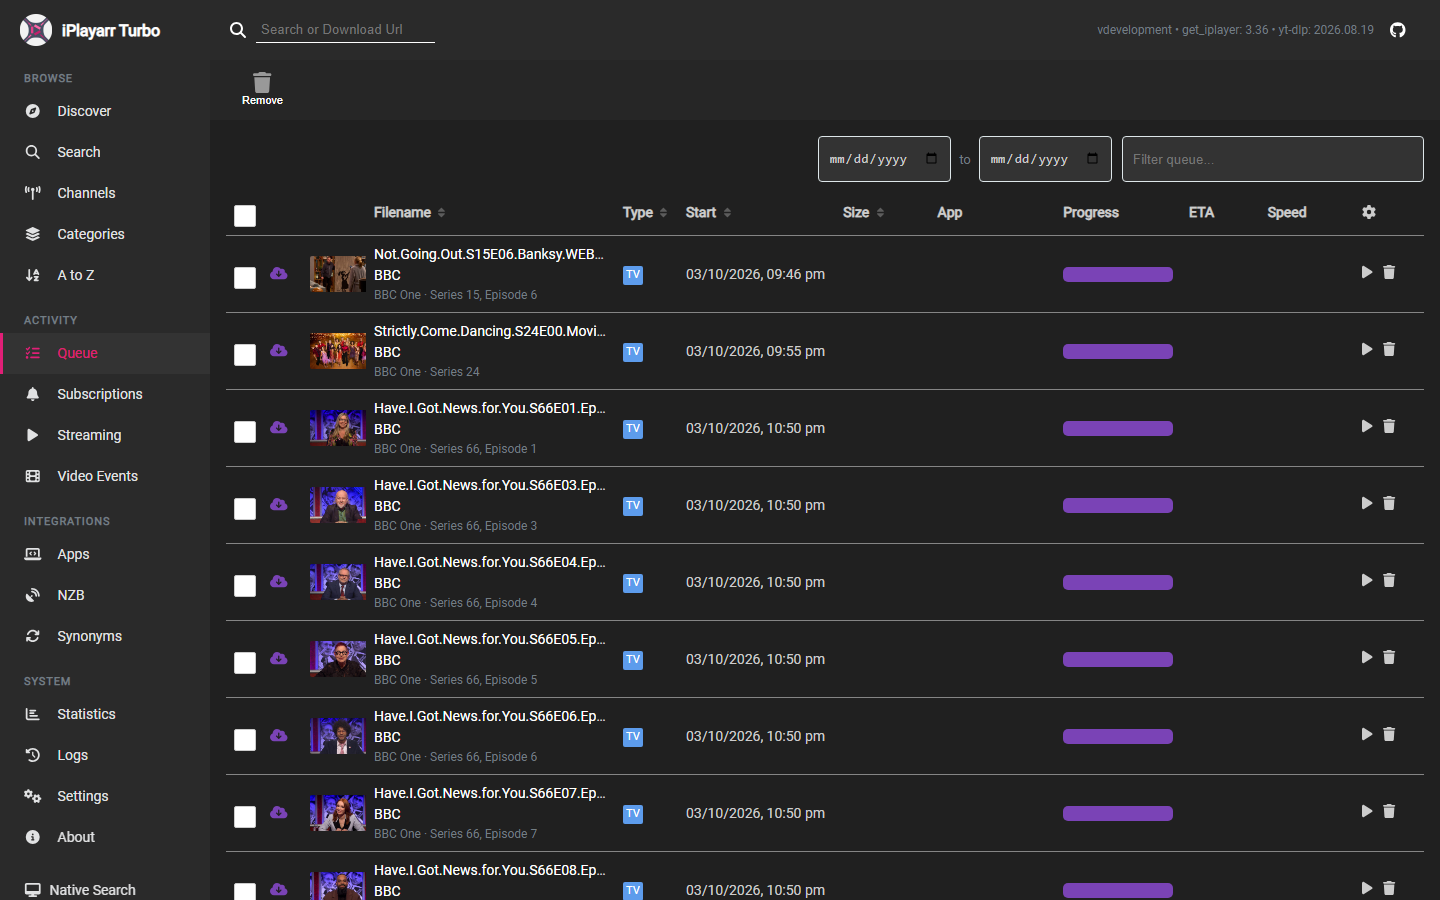
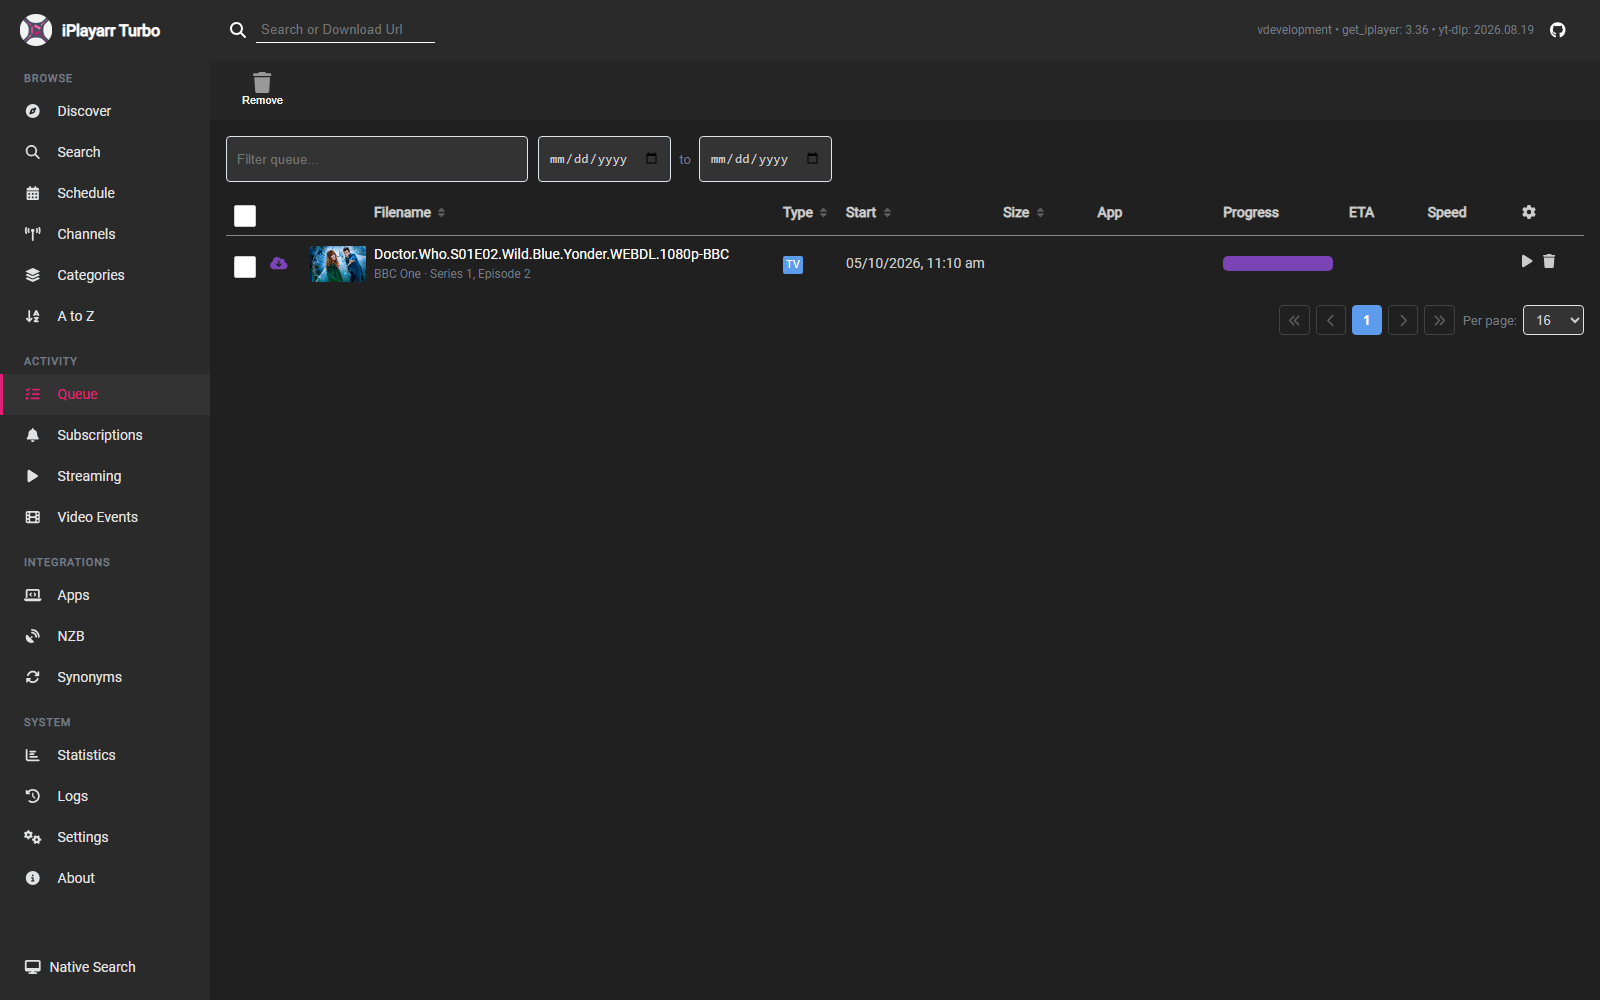
docs(readme): add fresh screenshots and document ARR_COMPLETE_DIR in examples
Smoke-tested the web UI (search/download, subscribe, mobile layout) and
swapped in current screenshots for the README gallery. Also added
ARR_COMPLETE_DIR to the docker run/Compose examples in README.md and
docs/INSTALLATION.md, which had the setting documented elsewhere but
missing from the copy-pasteable examples.

diff --git a/README.md b/README.md
@@ -5,6 +5,7 @@ iPlayarr is a companion tool for **Sonarr** and **Radarr**, making it easy to in
 ![Build Status](https://img.shields.io/github/actions/workflow/status/planet22/iplayarr-turbo/build.yml?logo=github)
 ![Test Status](https://img.shields.io/github/actions/workflow/status/planet22/iplayarr-turbo/test.yml?logo=github&label=tests)
 <!--- istanbul-badges-readme:start --->
+
 ![Statements](https://img.shields.io/badge/statements-70.39%25-red.svg?style=flat)
 ![Branches](https://img.shields.io/badge/branches-60.34%25-red.svg?style=flat)
 ![Functions](https://img.shields.io/badge/functions-69.67%25-red.svg?style=flat)
@@ -36,15 +37,22 @@ This README covers the basics. For more detail, see `docs/`:
 
 <p align="center">
   <img src="https://raw.githubusercontent.com/planet22/iplayarr-turbo/refs/heads/main/readme-media/login.png" alt="Login View" width="49%">
+  <img src="https://raw.githubusercontent.com/planet22/iplayarr-turbo/refs/heads/main/readme-media/search.png" alt="Search View" width="49%">
+</p>
+<p align="center">
+  <img src="https://raw.githubusercontent.com/planet22/iplayarr-turbo/refs/heads/main/readme-media/download.png" alt="Download Confirmation" width="49%">
   <img src="https://raw.githubusercontent.com/planet22/iplayarr-turbo/refs/heads/main/readme-media/queue.png" alt="Queue View" width="49%">
 </p>
 <p align="center">
-  <img src="https://raw.githubusercontent.com/planet22/iplayarr-turbo/refs/heads/main/readme-media/search.png" alt="Search View" width="49%">
+  <img src="https://raw.githubusercontent.com/planet22/iplayarr-turbo/refs/heads/main/readme-media/subscribe.png" alt="Subscribe to a Show" width="49%">
   <img src="https://raw.githubusercontent.com/planet22/iplayarr-turbo/refs/heads/main/readme-media/details.png" alt="Details View" width="49%">
 </p>
 <p align="center">
   <img src="https://raw.githubusercontent.com/planet22/iplayarr-turbo/refs/heads/main/readme-media/channels.png" alt="Channels View" width="49%">
   <img src="https://raw.githubusercontent.com/planet22/iplayarr-turbo/refs/heads/main/readme-media/schedule.png" alt="Schedule View" width="49%">
+</p>
+<p align="center">
+  <img src="https://raw.githubusercontent.com/planet22/iplayarr-turbo/refs/heads/main/readme-media/mobile.png" alt="Mobile View" width="30%">
 </p>
 
 ## Why iPlayarr?
@@ -76,6 +84,7 @@ docker run -d --name iplayarr \
   -v ./logs:/logs \
   -v /path/to/incomplete:/incomplete \
   -v /path/to/complete:/complete \
+  -v /path/to/arrcomplete:/arrcomplete \
   --env-file=env-file \
   -p 4404:4404 \
   ghcr.io/planet22/iplayarr-turbo:latest
@@ -91,10 +100,13 @@ docker run -d --name iplayarr \
   -v ./logs:/logs \
   -v /path/to/incomplete:/incomplete \
   -v /path/to/complete:/complete \
+  -v /path/to/arrcomplete:/arrcomplete \
   --env-file=env-file \
   -p 4404:4404 \
   iplayarr
 ```
+
+The `/path/to/arrcomplete` mount is only needed if you set `ARR_COMPLETE_DIR` (e.g. `ARR_COMPLETE_DIR=/arrcomplete` in `env-file`) to give TV downloads their own completed-files folder, separate from `COMPLETE_DIR` — see the optional settings table below. Leave it out if you don't use that setting.
 
 Or use Docker Compose:
 
@@ -107,6 +119,7 @@ services:
             - 'API_KEY=1234'
             - 'DOWNLOAD_DIR=/mnt/media/iplayarr/incomplete'
             - 'COMPLETE_DIR=/mnt/media/iplayarr/complete'
+            - 'ARR_COMPLETE_DIR=/mnt/media/iplayarr/arrcomplete'
             - 'PUID=1000'
             - 'PGID=1000'
         ports:
@@ -117,6 +130,8 @@ services:
             - './config:/config'
             - './logs:/logs'
 ```
+
+`ARR_COMPLETE_DIR` is optional — it's under `/mnt/media/iplayarr/arrcomplete`, so the existing `/mnt/media:/mnt/media` mount already covers it. Remove that environment line if you don't want TV downloads split into their own folder.
 
 See [docs/INSTALLATION.md](docs/INSTALLATION.md) for a deeper walkthrough of volume mounts, PUID/PGID, and updating the container, and [docs/platforms/synology.md](docs/platforms/synology.md)/[docs/platforms/unraid.md](docs/platforms/unraid.md) for NAS-specific notes.
 
@@ -130,32 +145,32 @@ You can pre-set the following environment variables, or you can set them in the 
 
 There's a few more optional settings too:
 
-| Property         | Description                                                                               |
-| ---------------- | ----------------------------------------------------------------------------------------- |
-| ACTIVE_LIMIT     | How many downloads are allowed simultaneously, defaults to 3                              |
-| REFRESH_SCHEDULE | Cron expression for when to proactively refresh schedule, defaults to hourly, on the hour |
-| SCHEDULE_FULL_REFRESH | Re-fetch every day in the schedule window on every refresh instead of reusing cached results for days that have already passed. Defaults to false |
-| HIDE_DONATE      | If you don't like the Kofi donate links you can hide them                                 |
-| PUID             | Host User ID for file permissions                                                         |
-| PGID             | Host Group ID for file permissions                                                        |
-| NATIVE_SEARCH    | Search BBC's own search API directly instead of shelling out to get_iplayer. Faster, and the default. Defaults to true |
-| ARCHIVE_ENABLED  | Keep a record of cancelled/removed downloads instead of discarding them outright. Defaults to false |
-| OUTPUT_FORMAT    | Output container format passed to get_iplayer (e.g. mp4). Defaults to mp4 |
-| LIBRARY_FOLDER_STRUCTURE | Organize completed downloads under COMPLETE_DIR into Jellyfin-style Show/Season folders (or a Movie folder), instead of one flat folder. Defaults to false. See [docs/LIBRARY_ORGANIZATION.md](docs/LIBRARY_ORGANIZATION.md) |
-| ARR_COMPLETE_DIR | Optional override of COMPLETE_DIR for TV downloads only (what the *arr imports). Leave unset to use COMPLETE_DIR for everything |
-| WRITE_NFO_STRM   | Write a Jellyfin-compatible .nfo metadata file alongside each completed item. A .strm file is only ever produced when MEDIA_MODE is `strm`; this just adds matching .nfo metadata for it. One of `none` (default), `all`, `nzb` (only downloads added by Sonarr/Radarr), or `manual` (only manually-triggered downloads). See [docs/LIBRARY_ORGANIZATION.md](docs/LIBRARY_ORGANIZATION.md) |
-| MEDIA_MODE       | `strm` (default) saves a small pointer file that streams on demand, saving disk space; `download` saves the full file instead. See [docs/STREAMING.md](docs/STREAMING.md) |
-| STREAM_CLIENT    | Which tool serves playback for `.strm` files: `NATIVE` (default, fastest to start, adaptive quality), `GET_IPLAYER`, or `YTDLP`. See [docs/STREAMING.md](docs/STREAMING.md) |
-| STREAM_MODE      | `direct` (default, supports seeking) or `progressive-mkv` (remuxes to MKV on the fly, needs ffmpeg, no seeking) |
-| STREAM_BASE_URL  | The address your media server (Jellyfin/Plex/Emby) uses to reach iPlayarr, for links written into `.strm` files |
-| STREAM_KEY       | Secures `.strm` playback links, separate from API_KEY so it can be regenerated on its own |
-| STREAM_CACHE_DIR | Where temporary files are stored while streaming. Defaults to a temp folder |
-| STREAM_NATIVE_ADAPTIVE | With STREAM_CLIENT=NATIVE, let the player adjust quality automatically instead of pinning VIDEO_QUALITY. Defaults to false |
-| STREAM_NATIVE_HQ_PROBE | With STREAM_CLIENT=NATIVE, verify real stream quality before playing (adds a short delay). Defaults to false |
-| STREAM_NATIVE_EXPERIMENTAL_FHD | With STREAM_CLIENT=NATIVE, try to unlock real 1080p above BBC's usual 720p cap on native streams. Defaults to true |
-| THUMBNAIL_CACHE_DIR | Where cached BBC episode thumbnails are stored |
-| THUMBNAIL_RETENTION_DAYS | How many days to keep unused cached thumbnails before nightly cleanup. Defaults to 30 |
-| STREAM_HISTORY_RETENTION_DAYS | How many days to keep native streaming session history before nightly cleanup. Defaults to 30 |
+| Property                       | Description                                                                                                                                                                                                                                                                                                                                                                                |
+| ------------------------------ | ------------------------------------------------------------------------------------------------------------------------------------------------------------------------------------------------------------------------------------------------------------------------------------------------------------------------------------------------------------------------------------------ |
+| ACTIVE_LIMIT                   | How many downloads are allowed simultaneously, defaults to 3                                                                                                                                                                                                                                                                                                                               |
+| REFRESH_SCHEDULE               | Cron expression for when to proactively refresh schedule, defaults to hourly, on the hour                                                                                                                                                                                                                                                                                                  |
+| SCHEDULE_FULL_REFRESH          | Re-fetch every day in the schedule window on every refresh instead of reusing cached results for days that have already passed. Defaults to false                                                                                                                                                                                                                                          |
+| HIDE_DONATE                    | If you don't like the Kofi donate links you can hide them                                                                                                                                                                                                                                                                                                                                  |
+| PUID                           | Host User ID for file permissions                                                                                                                                                                                                                                                                                                                                                          |
+| PGID                           | Host Group ID for file permissions                                                                                                                                                                                                                                                                                                                                                         |
+| NATIVE_SEARCH                  | Search BBC's own search API directly instead of shelling out to get_iplayer. Faster, and the default. Defaults to true                                                                                                                                                                                                                                                                     |
+| ARCHIVE_ENABLED                | Keep a record of cancelled/removed downloads instead of discarding them outright. Defaults to false                                                                                                                                                                                                                                                                                        |
+| OUTPUT_FORMAT                  | Output container format passed to get_iplayer (e.g. mp4). Defaults to mp4                                                                                                                                                                                                                                                                                                                  |
+| LIBRARY_FOLDER_STRUCTURE       | Organize completed downloads under COMPLETE_DIR into Jellyfin-style Show/Season folders (or a Movie folder), instead of one flat folder. Defaults to false. See [docs/LIBRARY_ORGANIZATION.md](docs/LIBRARY_ORGANIZATION.md)                                                                                                                                                               |
+| ARR_COMPLETE_DIR               | Optional override of COMPLETE_DIR for TV downloads only (what the *arr imports). Leave unset to use COMPLETE_DIR for everything                                                                                                                                                                                                                                                            |
+| WRITE_NFO_STRM                 | Write a Jellyfin-compatible .nfo metadata file alongside each completed item. A .strm file is only ever produced when MEDIA_MODE is `strm`; this just adds matching .nfo metadata for it. One of `none` (default), `all`, `nzb` (only downloads added by Sonarr/Radarr), or `manual` (only manually-triggered downloads). See [docs/LIBRARY_ORGANIZATION.md](docs/LIBRARY_ORGANIZATION.md) |
+| MEDIA_MODE                     | `strm` (default) saves a small pointer file that streams on demand, saving disk space; `download` saves the full file instead. See [docs/STREAMING.md](docs/STREAMING.md)                                                                                                                                                                                                                  |
+| STREAM_CLIENT                  | Which tool serves playback for `.strm` files: `NATIVE` (default, fastest to start, adaptive quality), `GET_IPLAYER`, or `YTDLP`. See [docs/STREAMING.md](docs/STREAMING.md)                                                                                                                                                                                                                |
+| STREAM_MODE                    | `direct` (default, supports seeking) or `progressive-mkv` (remuxes to MKV on the fly, needs ffmpeg, no seeking)                                                                                                                                                                                                                                                                            |
+| STREAM_BASE_URL                | The address your media server (Jellyfin/Plex/Emby) uses to reach iPlayarr, for links written into `.strm` files                                                                                                                                                                                                                                                                            |
+| STREAM_KEY                     | Secures `.strm` playback links, separate from API_KEY so it can be regenerated on its own                                                                                                                                                                                                                                                                                                  |
+| STREAM_CACHE_DIR               | Where temporary files are stored while streaming. Defaults to a temp folder                                                                                                                                                                                                                                                                                                                |
+| STREAM_NATIVE_ADAPTIVE         | With STREAM_CLIENT=NATIVE, let the player adjust quality automatically instead of pinning VIDEO_QUALITY. Defaults to false                                                                                                                                                                                                                                                                 |
+| STREAM_NATIVE_HQ_PROBE         | With STREAM_CLIENT=NATIVE, verify real stream quality before playing (adds a short delay). Defaults to false                                                                                                                                                                                                                                                                               |
+| STREAM_NATIVE_EXPERIMENTAL_FHD | With STREAM_CLIENT=NATIVE, try to unlock real 1080p above BBC's usual 720p cap on native streams. Defaults to true                                                                                                                                                                                                                                                                         |
+| THUMBNAIL_CACHE_DIR            | Where cached BBC episode thumbnails are stored                                                                                                                                                                                                                                                                                                                                             |
+| THUMBNAIL_RETENTION_DAYS       | How many days to keep unused cached thumbnails before nightly cleanup. Defaults to 30                                                                                                                                                                                                                                                                                                      |
+| STREAM_HISTORY_RETENTION_DAYS  | How many days to keep native streaming session history before nightly cleanup. Defaults to 30                                                                                                                                                                                                                                                                                              |
 
 ### Usage
 

diff --git a/docs/INSTALLATION.md b/docs/INSTALLATION.md
@@ -63,6 +63,7 @@ services:
             - 'API_KEY=${IPLAYERARR_API_KEY}'
             - 'DOWNLOAD_DIR=/data/downloads/iplayarr/incomplete'
             - 'COMPLETE_DIR=/data/downloads/iplayarr/complete'
+            - 'ARR_COMPLETE_DIR=/data/downloads/iplayarr/ArrComplete' # optional - see below
             - 'PUID=${USER_ID}'
             - 'PGID=${GROUP_ID}'
             - 'TZ=${TIMEZONE}'
